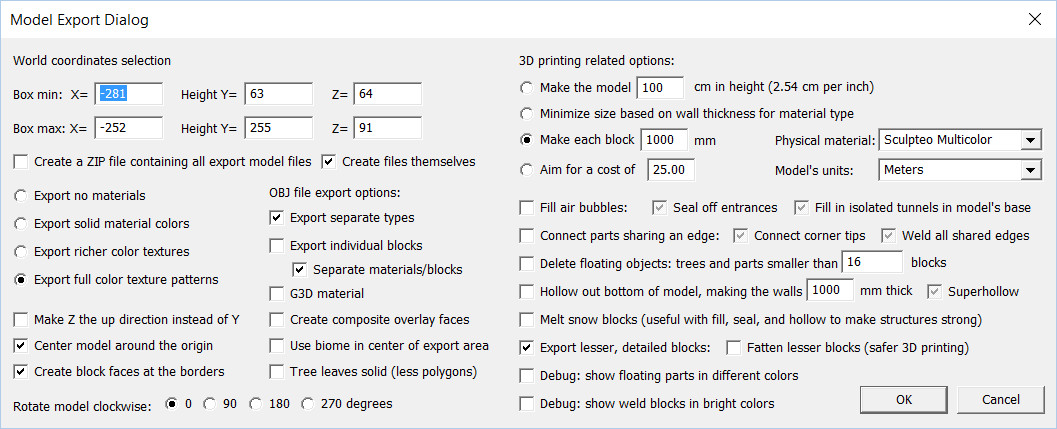
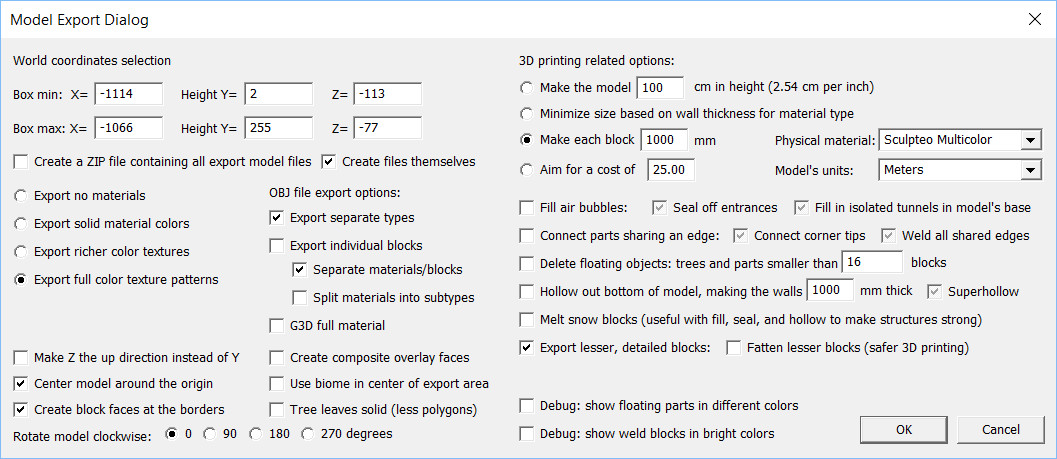
Better highlight, fixed OBJ export options
Added highlight to empty block areas.

Bug fixes: The export options for OBJ were getting trashed when VRML or
STL export was done first. Also, some options that were supposed to be
unchangeable could be changed.

Changed region(s): [[0.0, 0.0, 1.0, 1.0], [0.4995, 0.8485, 0.7493, 0.9697], [0.0, 0.0, 0.1561, 0.0606]]

diff --git a/docs/mineways.html b/docs/mineways.html
@@ -398,12 +398,12 @@ You can also interactively compare these sampling methods <a href="https://skfb.
 <LI>Separate materials/blocks: on by default, each object is given a separate material. Turning this option off for some renderers makes for a simpler import conversion process, at the cost of having only one material.
 <LI id="individual" class="ib">Individual blocks: Normally Mineways exports only those faces that are visible. By checking this box, <i>every</i> block's faces are output, allowing you to easily animate such operations as mining. This considerably increases file size and render time, so use it only if you need it. If you also turn on "Separate materials/blocks," each separate block is put into a separate object, so each can be deleted, animated, etc. <I>(thanks to Ryan Miller for the idea, and Flaeon for the group option.)</I>
 <LI><a id="material_subtypes">Split materials into subtypes:</a> If multiple materials are exported (see the combinations below), have each different variant of a given type have its own material. This lets you individually tailor the material of the 7 different forms of <a href="http://minecraft.gamepedia.com/Data_values#Stone">Stone</a>, so that polished granite could have a different shine than granite, for example. This option is off by default, because turning it on yields noticeably more materials. Each material is identified by its data value suffix, e.g. "Stone__5" is <a href="http://minecraft.gamepedia.com/Data_values#Stone">Andesite</a>. If the data value is 0, no suffix is added (so "Stone" is plain old stone, data value 0). Note: I have tried to limit new materials to those where there's a physical difference in the material itself, not just geometric changes. A block being "active" or a cake being sliced will not give it a separate material. Crops are given separate materials for each growth level, and farmland each wetness level. Redstone wire is given its 16 levels of power, even though Mineways itself differentiates only between off and on states.
-<LI><a id="full_material">G3D material:</a> Checking this box causes the diffuse color of the material to always be white (which positively affects water in 3DS MAX), and for a more elaborate illumination model to be output (which adversely affects Blender's rendering of water). <a href="http://meshlab.sourceforge.net/">MeshLab</a> and the <a href="#g3d">G3D viewer</a> have the feature/bug that the texture color is multiplied by the material color. Most renderers (Maya, Cinema 4D, Blender) do not perform this multiplication, so leaving this box unchecked for them means you can turn off textures and still see the solid block colors. This is particularly handy for Blender, where textures are off by default. This is also the default material for colored 3D printing, to avoid any problems with readers.
+<LI><a id="full_material">G3D material:</a> Checking this box causes a more elaborate illumination model to be output. Specifically, the parameters Ns, Ka, map_Ka, illum, and Tf are set, and Ke is made twice as bright for any light sources (this makes objects such as lava glow a bit more in G3D). Originally this option was meant to make the (great and free) <a href="#g3d">G3D</a> previewer happy, but now G3D works about the same whether this box is checked or not.
 </UL>
 <P>
-The logic for the first few options is confusing (even to me), so here are all the permutations:
+The logic for the first few options is confusing (even to me), so here are all the permutations (ignore the G3D material option):
 <UL>
-<LI>No OBJ export boxes checked (ignore the G3D box for all of these): no group is output, single material. This is what 3D prints always use.
+<LI>No OBJ export boxes checked: no group is output, single material. This is what 3D prints always use.
 <LI>Check "Export separate types": visible polygons are grouped by type (Grass_Block, Sand, Dirt), single material.
 <LI>Check "Export separate types" and "Separate materials/blocks" (the default): polygons are grouped by type, each type has a material.
 <LI>Check "Export individual blocks": same as above, polygons are grouped by block type, each type has a material. However, geometrically, every block has all its faces output, even those not visible.
@@ -2383,10 +2383,10 @@ See <a href="https://sketchfab.com/models/53f7adafaca44a5b8ef1692a47fa03ac?annot
 <LI>Version 5.04, 10/8/2016 - <a href="http://realtimerendering.com/erich/minecraft/public/mineways/minewaysV504.zip">exe</a>, <a href="http://realtimerendering.com/erich/minecraft/public/mineways/MinewaysMac504.zip">Mac 32-bit only</a>, <a href="https://github.com/erich666/Mineways/tags">source</a>.
 <BR>
 <UL>
-<LI>Stand-ins are in place for the proposed 1.11 observer and shulker boxes. The new tiles are not yet integrated into Mineways, as I don't like to integrate textures and their names until the release is official. You'll get something approximating these new blocks.
+<LI>Stand-ins are in place for the Minecraft 1.11 beta observer and shulker boxes. The new textures for these are not yet integrated into Mineways, as I don't like to integrate blocks and their texture names until the release is official. For now you'll get something approximating these new blocks.
 <LI><a href="#material_subtypes">Material subtypes</a> can be output: for example, Stone has seven types. Normally only one material, "Stone", is output, but you can have "Stone", "Stone__1", "Stone__5" for each type used, by its data value.
 <LI>Command line option added: you can specify the folder where your Minecraft world save folders are stored, if you want to use another directory location. The format is <a href="scripting.html#clo">-s directory</a>. <I>(Thanks to <a href="https://www.reddit.com/r/mineways/comments/50hvj1/suggestionsbugs/">this redditor</a> for this suggestion.)</I>
-<LI>The selection box now shows against empty space. <I>(Thanks again to <a href="https://www.reddit.com/r/mineways/comments/50hvj1/suggestionsbugs/">this redditor</a> for this suggestion.)</I>
+<LI>The selection box now shows against empty or missing blocks. <I>(Thanks again to <a href="https://www.reddit.com/r/mineways/comments/50hvj1/suggestionsbugs/">this redditor</a> for this suggestion.)</I>
 <LI><a href="http://minecraft.gamepedia.com/Flower_Pot">Flower pots</a> are fully supported for rendering, as <a href="http://minecraft.gamepedia.com/Chunk_format#Block_entity_format">block entities</a> are now read in. Reading in block entities was pretty involved...
 <LI><a href="http://minecraft.gamepedia.com/Mob_head">Mob heads</a> are properly scaled and positioned, but are still rendered as pumpkins. Adding the real heads is on the TODO list, but involves using unwrapped textures; the dragon head in particular is quite elaborate. Note that with <a href="#material_subtypes">Material subtypes</a> feature the different heads will be identified by their material.
 <LI>Efficiency/bug fix: 3D print OBJ models were exporting with separate materials and groups. These are unnecessary, as is the alpha channel texture output. However, if exported using a single material, the alpha textures were getting used. Fixed.
@@ -2395,11 +2395,12 @@ See <a href="https://sketchfab.com/models/53f7adafaca44a5b8ef1692a47fa03ac?annot
 <LI>Monster eggs now output mossy, cracked, and chiseled stone brick versions, a 1.7.2 change I finally noticed.
 <LI>End portal frames now show the eye of ender if present, and also are rotated (though not 100% compliant, as I don't want to mess with adding a bunch of rotation flags).
 <LI>Pumpkins and Jack O' Lanterns now show the faceless varieties (data value 4).
-<LI>Bug fix: a block with vines hanging on all 4 sides and with the bottom covered could potentially crash Mineways. Array sizes increased.
-<LI>Bug fix: if lesser block export is turned off for rendering, composite overlay must also be off, as the whole "small object" subsystem is not used. This bug caused a crash. <I>(Thanks to <a href="https://www.reddit.com/r/mineways/comments/50hvj1/suggestionsbugs/">this redditor</a> for reporting this bug.)</I>
+<LI>Bug fix: A block with vines hanging on all 4 sides and with the bottom covered could potentially crash Mineways. Array sizes increased.
+<LI>Bug fix: If lesser block export is turned off for rendering, composite overlay must also be off, as the whole "small object" subsystem is not used. This bug caused a crash. <I>(Thanks to <a href="https://www.reddit.com/r/mineways/comments/50hvj1/suggestionsbugs/">this redditor</a> for reporting this bug.)</I>
 <LI>Bug fix: Anvil top blocks were output twice, causing the top of the anvil to not show correctly.
-<LI>Bug fix: acacia and jungle saplings were getting turned into oak and spruce saplings, due to masking out the two high data value bits.
-<LI>Bug fix: areas with X or Z coordinates outside of the -1,000,000 to 1,000,000 range would give an out of memory error, due to some lazy bounds testing I put in. Changed 999999 to INT_MAX, -999999 to INT_MIN throughout the code. <I>(Thanks to David Ng for reporting this bug.)</I>
+<LI>Bug fix: Acacia and jungle saplings were getting turned into oak and spruce saplings, due to masking out the two high data value bits.
+<LI>Bug fixes: The export options for OBJ were getting trashed when VRML or STL export was done first. Also, some options that were supposed to be unchangeable could be changed. I think I fixed this system now...
+<LI>Bug fix: Areas with X or Z coordinates outside of the -1,000,000 to 1,000,000 range would give an out of memory error, due to some lazy bounds testing I put in. Changed 999999 to INT_MAX, -999999 to INT_MIN throughout the code. <I>(Thanks to David Ng for reporting this bug.)</I>
 </UL>
 
 <LI>Future Version 5.05, ??/??/201?  - possible near-term future features:

diff --git a/Win/ExportPrint.cpp b/Win/ExportPrint.cpp
@@ -55,6 +55,12 @@ void getExportPrintData(ExportFileData *pEpd)
 void setExportPrintData(ExportFileData *pEpd)
 {
     epd = *pEpd;
+	// Anything with an indeterminate state on exit needs to get set back to a real state,
+	// whatever it started with, unless some new setting has forced it to be different.
+	// Currently used just for OBJ export options; indeterminates are considered unchecked otherwise.
+	// Since we can switch between file formats, we need to preserve the OBJ settings and not
+	// have them destroyed by exporting to VRML, for example.
+	origEpd = epd;
 }
 
 INT_PTR CALLBACK ExportPrint(HWND hDlg,UINT message,WPARAM wParam,LPARAM lParam);
@@ -115,16 +121,17 @@ INT_PTR CALLBACK ExportPrint(HWND hDlg,UINT message,WPARAM wParam,LPARAM lParam)
             // OBJ options: gray out if OBJ not in use
             if ( epd.fileType == FILE_TYPE_WAVEFRONT_ABS_OBJ || epd.fileType == FILE_TYPE_WAVEFRONT_REL_OBJ )
             {
-                CheckDlgButton(hDlg,IDC_MULTIPLE_OBJECTS,epd.chkMultipleObjects);
+                CheckDlgButton(hDlg, IDC_MULTIPLE_OBJECTS, epd.chkMultipleObjects);
 				CheckDlgButton(hDlg, IDC_INDIVIDUAL_BLOCKS, (epd.flags & EXPT_3DPRINT) ? BST_INDETERMINATE : epd.chkIndividualBlocks);
-				CheckDlgButton(hDlg, IDC_MATERIAL_PER_TYPE, epd.chkMultipleObjects || (!(epd.flags & EXPT_3DPRINT) && epd.chkIndividualBlocks) ? epd.chkMaterialPerType : BST_INDETERMINATE);
+				// if neither of the two above are checked, this one's indeterminate
+				CheckDlgButton(hDlg, IDC_MATERIAL_PER_TYPE, (epd.chkMultipleObjects || ((epd.flags & EXPT_3DPRINT) ? false : epd.chkIndividualBlocks)) ? epd.chkMaterialPerType : BST_INDETERMINATE);
 				CheckDlgButton(hDlg, IDC_MATERIAL_SUBTYPES, epd.chkMaterialSubtypes);
 				CheckDlgButton(hDlg, IDC_G3D_MATERIAL, epd.chkG3DMaterial);
 			}
             else
             {
-				// other file formats: keep these grayed out and unselectable
-                CheckDlgButton(hDlg,IDC_MULTIPLE_OBJECTS,BST_INDETERMINATE);
+				// other file formats: keep these grayed out and unselectable;
+                CheckDlgButton(hDlg, IDC_MULTIPLE_OBJECTS, BST_INDETERMINATE);
 				CheckDlgButton(hDlg, IDC_INDIVIDUAL_BLOCKS, BST_INDETERMINATE);
 				CheckDlgButton(hDlg, IDC_MATERIAL_PER_TYPE, BST_INDETERMINATE);
 				CheckDlgButton(hDlg, IDC_MATERIAL_SUBTYPES, BST_INDETERMINATE);
@@ -445,16 +452,19 @@ ChangeMaterial:
         case IDC_MULTIPLE_OBJECTS:
 			if (epd.fileType == FILE_TYPE_WAVEFRONT_ABS_OBJ || epd.fileType == FILE_TYPE_WAVEFRONT_REL_OBJ)
 			{
+				// if it was checked, then it goes to indeterminate, but that really means "go to unchecked"
 				if (IsDlgButtonChecked(hDlg, IDC_MULTIPLE_OBJECTS) == BST_INDETERMINATE)
                 {
                     // go from the indeterminate tristate to unchecked - indeterminate is not selectable
                     CheckDlgButton(hDlg,IDC_MULTIPLE_OBJECTS,BST_UNCHECKED);
-					CheckDlgButton(hDlg, IDC_MATERIAL_PER_TYPE, BST_INDETERMINATE);
+					// now adjust sub-items. Material per type is indeterminate if multiple objects is unchecked,
+					// AND individual blocks is unchecked.
+					if (IsDlgButtonChecked(hDlg, IDC_INDIVIDUAL_BLOCKS) != BST_CHECKED)
+						CheckDlgButton(hDlg, IDC_MATERIAL_PER_TYPE, BST_INDETERMINATE);
 				}
 				else
                 {
-                    // checked, so the boxes below become active
-					//CheckDlgButton(hDlg, IDC_MULTIPLE_OBJECTS, BST_CHECKED);
+                    // checked
 					CheckDlgButton(hDlg, IDC_MATERIAL_PER_TYPE, BST_UNCHECKED);
 					if (epd.flags & EXPT_3DPRINT)
 					{
@@ -463,6 +473,8 @@ ChangeMaterial:
 					}
 					else
 					{
+						// turn off individual blocks unless the user really really wants it
+						// and turns it back on.
 						CheckDlgButton(hDlg, IDC_INDIVIDUAL_BLOCKS, BST_UNCHECKED);
 					}
 				}
@@ -486,13 +498,17 @@ ChangeMaterial:
 					{
 						// go from the indeterminate tristate to unchecked - indeterminate is not selectable
 						CheckDlgButton(hDlg, IDC_INDIVIDUAL_BLOCKS, BST_UNCHECKED);
-						CheckDlgButton(hDlg, IDC_MATERIAL_PER_TYPE, BST_INDETERMINATE);
+						// now adjust sub-items. Material per type is indeterminate if multiple objects is unchecked,
+						// AND individual blocks is unchecked.
+						if (IsDlgButtonChecked(hDlg, IDC_MULTIPLE_OBJECTS) != BST_CHECKED)
+							CheckDlgButton(hDlg, IDC_MATERIAL_PER_TYPE, BST_INDETERMINATE);
 					}
 					else
 					{
-						// checked, so the boxes below become active
-						//CheckDlgButton(hDlg, IDC_INDIVIDUAL_BLOCKS, BST_CHECKED);
+						// checked, so the box below becomes active
 						CheckDlgButton(hDlg, IDC_MATERIAL_PER_TYPE, BST_UNCHECKED);
+						// turn off multiple types unless the user really really wants it
+						// and turns it back on.
 						CheckDlgButton(hDlg, IDC_MULTIPLE_OBJECTS, BST_UNCHECKED);
 					}
 				}
@@ -503,7 +519,7 @@ ChangeMaterial:
 			}
 			break;
 		case IDC_MATERIAL_PER_TYPE:
-			if (IsDlgButtonChecked(hDlg, IDC_MULTIPLE_OBJECTS) || IsDlgButtonChecked(hDlg, IDC_INDIVIDUAL_BLOCKS))
+			if ((IsDlgButtonChecked(hDlg, IDC_MULTIPLE_OBJECTS) == BST_CHECKED) || (IsDlgButtonChecked(hDlg, IDC_INDIVIDUAL_BLOCKS) == BST_CHECKED))
 			{
 				// things are unlocked
 				if (IsDlgButtonChecked(hDlg, IDC_MATERIAL_PER_TYPE) == BST_INDETERMINATE)
@@ -764,8 +780,8 @@ ChangeMaterial:
                 GetDlgItemTextA(hDlg,IDC_WORLD_MAX_Y,lepd.maxyString,EP_FIELD_LENGTH);
                 GetDlgItemTextA(hDlg,IDC_WORLD_MAX_Z,lepd.maxzString,EP_FIELD_LENGTH);
 
-                lepd.chkCreateZip[lepd.fileType] = IsDlgButtonChecked(hDlg,IDC_CREATE_ZIP);
-                lepd.chkCreateModelFiles[lepd.fileType] = IsDlgButtonChecked(hDlg,IDC_CREATE_FILES);
+				lepd.chkCreateZip[lepd.fileType] = (IsDlgButtonChecked(hDlg, IDC_CREATE_ZIP) == BST_CHECKED);
+				lepd.chkCreateModelFiles[lepd.fileType] = (IsDlgButtonChecked(hDlg, IDC_CREATE_FILES) == BST_CHECKED);
 
                 lepd.radioExportNoMaterials[lepd.fileType] = IsDlgButtonChecked(hDlg,IDC_RADIO_EXPORT_NO_MATERIALS);
                 lepd.radioExportMtlColors[lepd.fileType] = IsDlgButtonChecked(hDlg,IDC_RADIO_EXPORT_MTL_COLORS_ONLY);
@@ -773,24 +789,35 @@ ChangeMaterial:
                 lepd.radioExportFullTexture[lepd.fileType] = IsDlgButtonChecked(hDlg,IDC_RADIO_EXPORT_FULL_TEXTURES);
 
                 // OBJ options
-                lepd.chkMultipleObjects = IsDlgButtonChecked(hDlg,IDC_MULTIPLE_OBJECTS);
-                lepd.chkMaterialPerType = IsDlgButtonChecked(hDlg,IDC_MATERIAL_PER_TYPE);
-				lepd.chkMaterialSubtypes = IsDlgButtonChecked(hDlg, IDC_MATERIAL_SUBTYPES);
-				lepd.chkG3DMaterial = IsDlgButtonChecked(hDlg, IDC_G3D_MATERIAL);
+				if (epd.fileType == FILE_TYPE_WAVEFRONT_ABS_OBJ || epd.fileType == FILE_TYPE_WAVEFRONT_REL_OBJ)
+				{
+					lepd.chkMultipleObjects = (IsDlgButtonChecked(hDlg, IDC_MULTIPLE_OBJECTS) == BST_CHECKED);
+					lepd.chkMaterialPerType = (IsDlgButtonChecked(hDlg, IDC_MATERIAL_PER_TYPE) == BST_CHECKED);
+					lepd.chkMaterialSubtypes = (IsDlgButtonChecked(hDlg, IDC_MATERIAL_SUBTYPES) == BST_CHECKED);
+					lepd.chkG3DMaterial = (IsDlgButtonChecked(hDlg, IDC_G3D_MATERIAL) == BST_CHECKED);
+				}
+				else
+				{
+					// restore state - these should never get set to indeterminate
+					lepd.chkMultipleObjects = origEpd.chkMultipleObjects;
+					lepd.chkMaterialPerType = origEpd.chkMaterialPerType;
+					lepd.chkMaterialSubtypes = origEpd.chkMaterialSubtypes;
+					lepd.chkG3DMaterial = origEpd.chkG3DMaterial;
+				}
+				// 3D printing should never use this option.
+				lepd.chkIndividualBlocks = (epd.flags & EXPT_3DPRINT) ? 0 : (IsDlgButtonChecked(hDlg, IDC_INDIVIDUAL_BLOCKS) == BST_CHECKED);
 
                 //lepd.chkMergeFlattop = IsDlgButtonChecked(hDlg,IDC_MERGE_FLATTOP);
-                lepd.chkMakeZUp[lepd.fileType] = IsDlgButtonChecked(hDlg,IDC_MAKE_Z_UP);
-                lepd.chkCenterModel = IsDlgButtonChecked(hDlg,IDC_CENTER_MODEL);
+				lepd.chkMakeZUp[lepd.fileType] = (IsDlgButtonChecked(hDlg, IDC_MAKE_Z_UP) == BST_CHECKED);
+				lepd.chkCenterModel = (IsDlgButtonChecked(hDlg, IDC_CENTER_MODEL) == BST_CHECKED);
 				// if 3D printing, or if lesser blocks is off, do composite overlay, where we make a new tile (things break otherwise)
 				lepd.chkCompositeOverlay = (epd.flags & EXPT_3DPRINT) ? 1 :
 					((IsDlgButtonChecked(hDlg, IDC_COMPOSITE_OVERLAY) == BST_CHECKED) || (IsDlgButtonChecked(hDlg, IDC_EXPORT_ALL) == BST_UNCHECKED));
 
                 // solid leaves and faces at borders always true for 3D printing.
-                lepd.chkLeavesSolid = (epd.flags & EXPT_3DPRINT) ? 1: IsDlgButtonChecked(hDlg,IDC_TREE_LEAVES_SOLID);
-                lepd.chkBlockFacesAtBorders = (epd.flags & EXPT_3DPRINT) ? 1: IsDlgButtonChecked(hDlg,IDC_BLOCKS_AT_BORDERS);
-                lepd.chkBiome = IsDlgButtonChecked(hDlg,IDC_BIOME);
-                // 3D printing should never use this option.
-				lepd.chkIndividualBlocks = (epd.flags & EXPT_3DPRINT) ? 0 : IsDlgButtonChecked(hDlg, IDC_INDIVIDUAL_BLOCKS);
+				lepd.chkLeavesSolid = (epd.flags & EXPT_3DPRINT) ? 1 : (IsDlgButtonChecked(hDlg, IDC_TREE_LEAVES_SOLID) == BST_CHECKED);
+				lepd.chkBlockFacesAtBorders = (epd.flags & EXPT_3DPRINT) ? 1 : (IsDlgButtonChecked(hDlg, IDC_BLOCKS_AT_BORDERS) == BST_CHECKED);
+                lepd.chkBiome = (IsDlgButtonChecked(hDlg,IDC_BIOME) == BST_CHECKED);
 
                 lepd.radioRotate0 = IsDlgButtonChecked(hDlg,IDC_RADIO_ROTATE_0);
                 lepd.radioRotate90 = IsDlgButtonChecked(hDlg,IDC_RADIO_ROTATE_90);
@@ -806,33 +833,33 @@ ChangeMaterial:
                 GetDlgItemTextA(hDlg,IDC_BLOCK_SIZE,lepd.blockSizeString,EP_FIELD_LENGTH);
                 GetDlgItemTextA(hDlg,IDC_COST,lepd.costString,EP_FIELD_LENGTH);
 
-                lepd.chkFillBubbles = IsDlgButtonChecked(hDlg,IDC_FILL_BUBBLES);
+				lepd.chkFillBubbles = (IsDlgButtonChecked(hDlg, IDC_FILL_BUBBLES) == BST_CHECKED);
                 // if filling bubbles is off, sealing entrances does nothing at all
-                lepd.chkSealEntrances = lepd.chkFillBubbles ? IsDlgButtonChecked(hDlg,IDC_SEAL_ENTRANCES) : 0;
-                lepd.chkSealSideTunnels = lepd.chkFillBubbles ? IsDlgButtonChecked(hDlg,IDC_SEAL_SIDE_TUNNELS) : 0;
+				lepd.chkSealEntrances = lepd.chkFillBubbles ? (IsDlgButtonChecked(hDlg, IDC_SEAL_ENTRANCES) == BST_CHECKED) : 0;
+				lepd.chkSealSideTunnels = lepd.chkFillBubbles ? (IsDlgButtonChecked(hDlg, IDC_SEAL_SIDE_TUNNELS) == BST_CHECKED) : 0;
 
-                lepd.chkConnectParts = IsDlgButtonChecked(hDlg,IDC_CONNECT_PARTS);
+				lepd.chkConnectParts = (IsDlgButtonChecked(hDlg, IDC_CONNECT_PARTS) == BST_CHECKED);
                 // if connect parts is off, corner tips and edges is off
-                lepd.chkConnectCornerTips = lepd.chkConnectParts ? IsDlgButtonChecked(hDlg,IDC_CONNECT_CORNER_TIPS) : 0;
-                lepd.chkConnectAllEdges = lepd.chkConnectParts ? IsDlgButtonChecked(hDlg,IDC_CONNECT_ALL_EDGES) : 0;
+				lepd.chkConnectCornerTips = lepd.chkConnectParts ? (IsDlgButtonChecked(hDlg, IDC_CONNECT_CORNER_TIPS) == BST_CHECKED) : 0;
+				lepd.chkConnectAllEdges = lepd.chkConnectParts ? (IsDlgButtonChecked(hDlg, IDC_CONNECT_ALL_EDGES) == BST_CHECKED) : 0;
 
-                lepd.chkDeleteFloaters = IsDlgButtonChecked(hDlg,IDC_DELETE_FLOATERS);
+				lepd.chkDeleteFloaters = (IsDlgButtonChecked(hDlg, IDC_DELETE_FLOATERS) == BST_CHECKED);
 
-                lepd.chkHollow[epd.fileType] = IsDlgButtonChecked(hDlg,IDC_HOLLOW);
+				lepd.chkHollow[epd.fileType] = (IsDlgButtonChecked(hDlg, IDC_HOLLOW) == BST_CHECKED);
                 // if hollow is off, superhollow is off
-                lepd.chkSuperHollow[epd.fileType] = lepd.chkHollow[epd.fileType] ? IsDlgButtonChecked(hDlg,IDC_SUPER_HOLLOW) : 0;
+				lepd.chkSuperHollow[epd.fileType] = lepd.chkHollow[epd.fileType] ? (IsDlgButtonChecked(hDlg, IDC_SUPER_HOLLOW) == BST_CHECKED) : 0;
 
-                lepd.chkMeltSnow = IsDlgButtonChecked(hDlg,IDC_MELT_SNOW);
+				lepd.chkMeltSnow = (IsDlgButtonChecked(hDlg, IDC_MELT_SNOW) == BST_CHECKED);
 
                 GetDlgItemTextA(hDlg,IDC_FLOAT_COUNT,lepd.floaterCountString,EP_FIELD_LENGTH);
                 GetDlgItemTextA(hDlg,IDC_HOLLOW_THICKNESS,lepd.hollowThicknessString,EP_FIELD_LENGTH);
 
-                lepd.chkExportAll = IsDlgButtonChecked(hDlg,IDC_EXPORT_ALL);
-                lepd.chkFatten = lepd.chkExportAll?IsDlgButtonChecked(hDlg,IDC_FATTEN) : 0;
+				lepd.chkExportAll = (IsDlgButtonChecked(hDlg, IDC_EXPORT_ALL) == BST_CHECKED);
+				lepd.chkFatten = lepd.chkExportAll ? (IsDlgButtonChecked(hDlg, IDC_FATTEN) == BST_CHECKED) : 0;
 
                 BOOL debugAvailable = !lepd.radioExportNoMaterials[lepd.fileType] && (lepd.fileType != FILE_TYPE_ASCII_STL);
-                lepd.chkShowParts = debugAvailable ? IsDlgButtonChecked(hDlg,IDC_SHOW_PARTS) : 0;
-                lepd.chkShowWelds = debugAvailable ? IsDlgButtonChecked(hDlg,IDC_SHOW_WELDS) : 0;
+				lepd.chkShowParts = debugAvailable ? (IsDlgButtonChecked(hDlg, IDC_SHOW_PARTS) == BST_CHECKED) : 0;
+				lepd.chkShowWelds = debugAvailable ? (IsDlgButtonChecked(hDlg, IDC_SHOW_WELDS) == BST_CHECKED) : 0;
 
                 lepd.comboPhysicalMaterial[lepd.fileType] = (int)SendDlgItemMessage(hDlg, IDC_COMBO_PHYSICAL_MATERIAL, CB_GETCURSEL, 0, 0);
                 lepd.comboModelUnits[lepd.fileType] = (int)SendDlgItemMessage(hDlg, IDC_COMBO_MODELS_UNITS, CB_GETCURSEL, 0, 0);

diff --git a/Win/ObjFileManip.cpp b/Win/ObjFileManip.cpp
@@ -4955,7 +4955,7 @@ static int saveBillboardOrGeometry( int boxIndex, int type )
 			if ((dataVal == 9) || (dataVal == CACTUS_FIELD))
             {
                 swatchLoc = SWATCH_INDEX( gBlockDefinitions[BLOCK_CACTUS].txrX, gBlockDefinitions[BLOCK_CACTUS].txrY );
-				saveBoxMultitileGeometry(boxIndex, type, dataVal, swatchLoc + 1, swatchLoc + 1, swatchLoc + 1, firstFace, gPrint3D ? 0x0 : DIR_BOTTOM_BIT, 0, 6, 10, 6, 16, 6, 10);
+				saveBoxMultitileGeometry(boxIndex, BLOCK_CACTUS, dataVal, swatchLoc + 1, swatchLoc + 1, swatchLoc + 1, firstFace, gPrint3D ? 0x0 : DIR_BOTTOM_BIT, 0, 6, 10, 6, 16, 6, 10);
                 firstFace = 0;
 				useInsidesAndBottom = 0;
             }
@@ -5165,11 +5165,15 @@ static int saveBillboardOrGeometry( int boxIndex, int type )
 			// TODO head type
 
 			translateMtx(mtx, 0.0f, 0.0f, 0.25f);
+			yrot = 0.0f;
 			switch (dataVal&0xf) {
 			default:
 				assert(0);
+			case 1:
+				// unused, but it's in some worlds, so this case ignores it instead of asserting.
+				break;
 			case 2: // north
-				yrot = 0.0f;
+				// already set above: yrot = 0.0f;
 				break;
 			case 3: // south
 				yrot = 180.0f;

diff --git a/Win/MinewaysMap.cpp b/Win/MinewaysMap.cpp
@@ -1739,7 +1739,9 @@ static unsigned char* draw(WorldGuide *pWorldGuide,int bx,int bz,int maxHeight,O
                     }
 
                     // in bounds, is the height good?
-                    if ( prevSely >= gBoxMinY && prevSely <= gBoxMaxY )
+					// First case is for if we hit nothing, all void, so it's black:
+					// always highlight that area, just for readability.
+                    if ( (prevSely == -1) || (prevSely >= gBoxMinY && prevSely <= gBoxMaxY))
                     {
                         hitsFound[1] = 1;
                         // blend in highlight color

diff --git a/Win/Mineways.cpp b/Win/Mineways.cpp
@@ -3775,8 +3775,8 @@ static void initializePrintExportData(ExportFileData &printData)
 	printData.chkIndividualBlocks = 0;
 	printData.chkMaterialPerType = 0;
 	printData.chkMaterialSubtypes = 0;
-	// we want a neutral material for printing (the rest is not all that important), to make sure the color is not multiplied by the texture
-	printData.chkG3DMaterial = 1;
+	// shouldn't really matter, now that both versions don't use the diffuse color when texturing
+	printData.chkG3DMaterial = 0;
 
 	printData.floaterCountVal = 16;
 	INIT_ALL_FILE_TYPES(printData.chkHollow, 1, 1, 0, 0, 0, 1, 0);

diff --git a/Win/ExportPrint.h b/Win/ExportPrint.h
@@ -2,7 +2,10 @@
 
 static int gOK;
 
-static     ExportFileData epd;
+static	ExportFileData epd;
+// this one has to be static to make the compiler happy
+static	ExportFileData origEpd;
+
 
 class ExportPrint
 {
